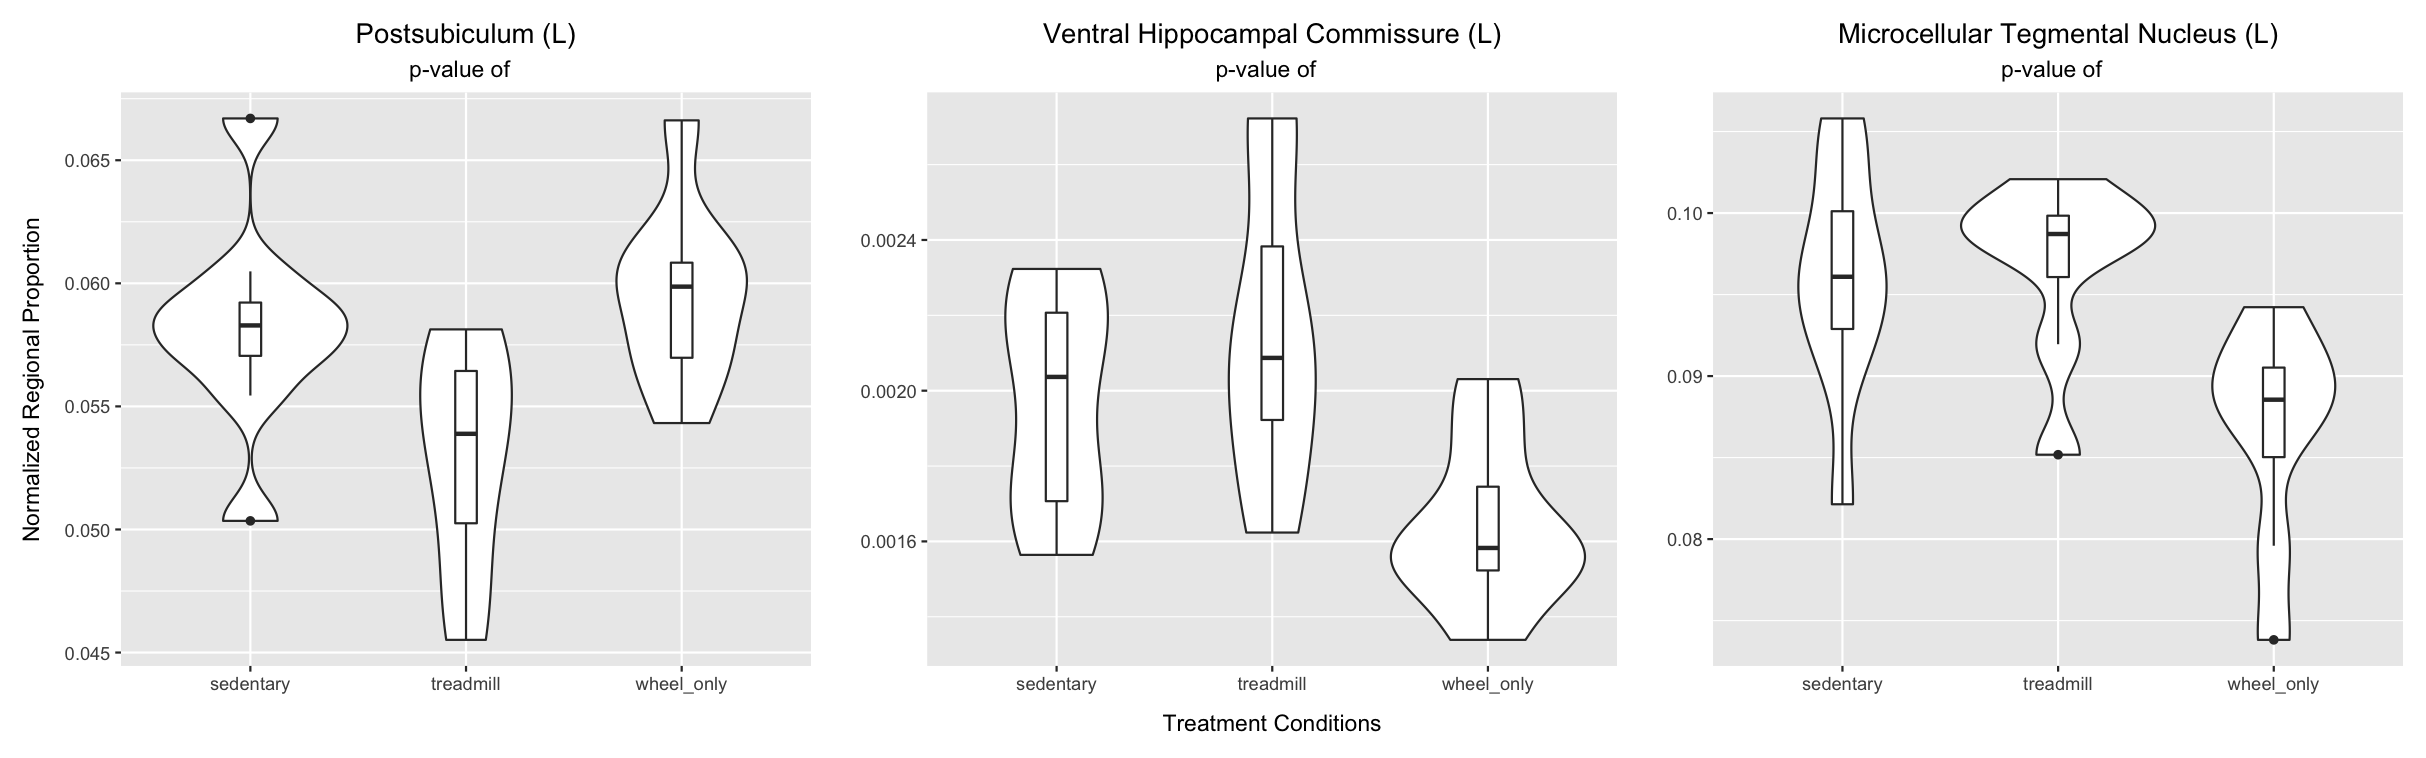
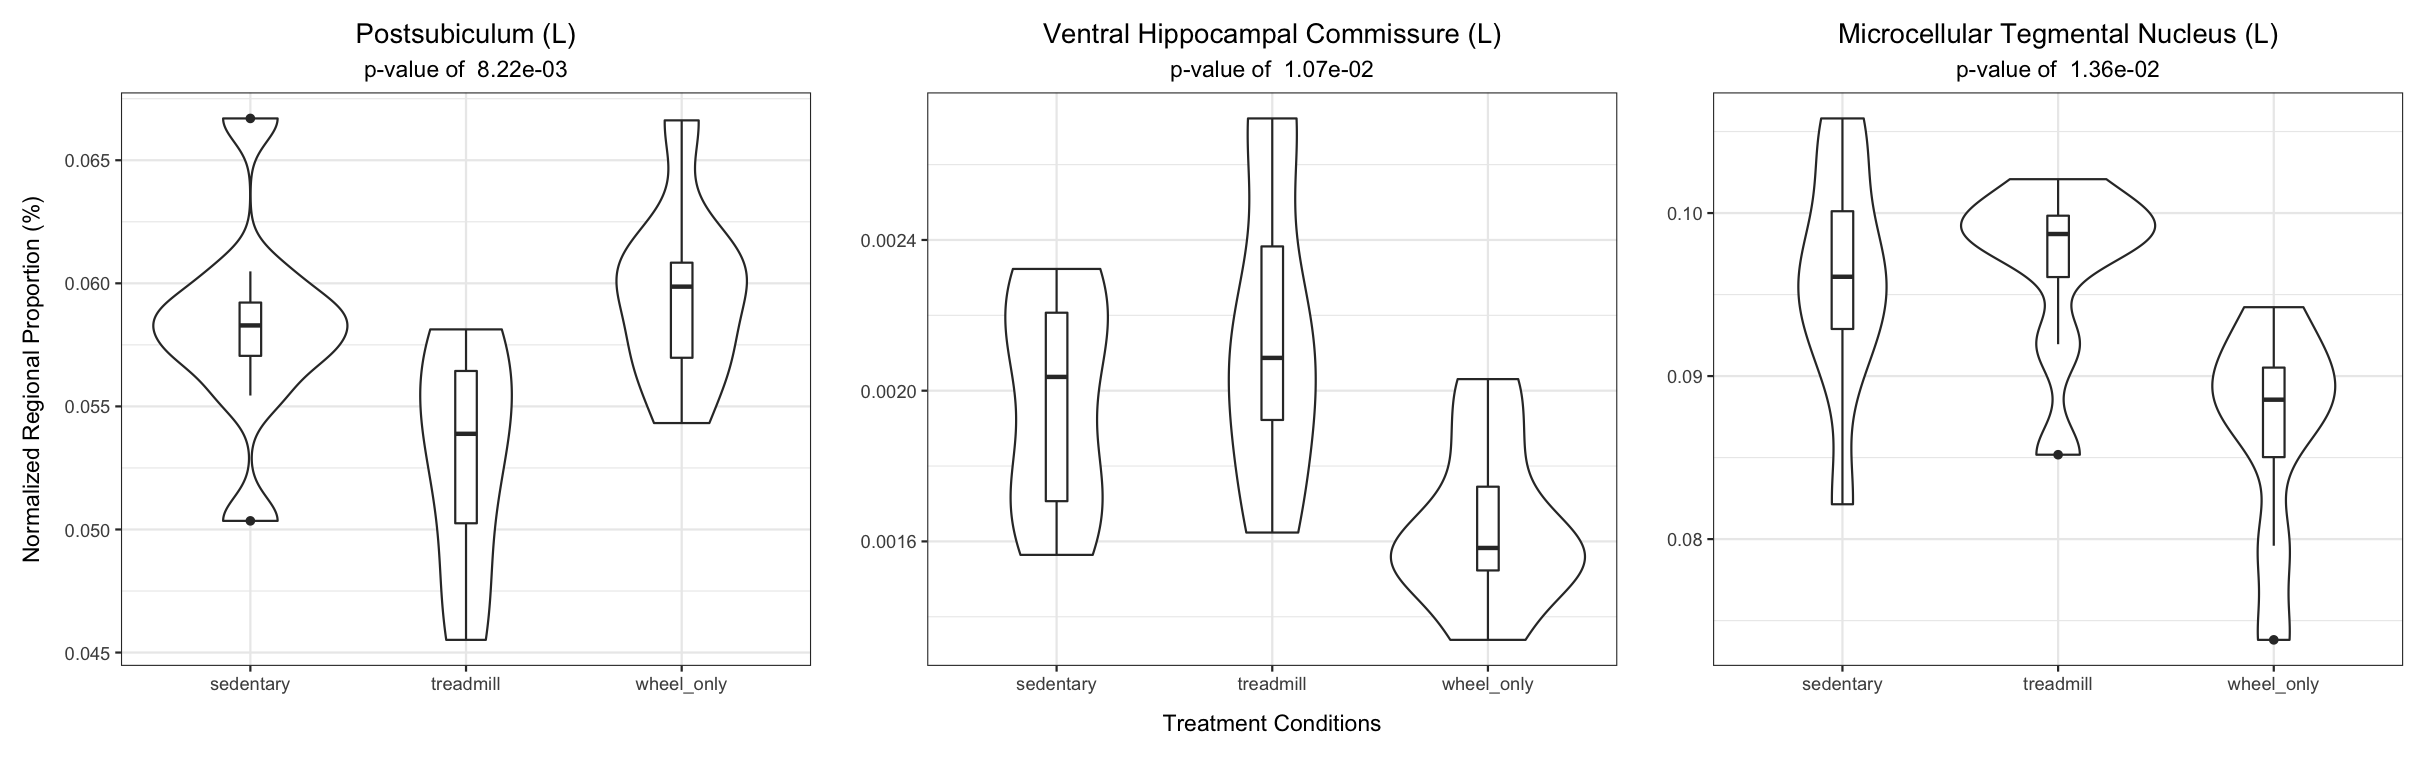
Update output of read_posthoc to make accessibility easier in R script; Updated figure outputs by setting bw theme and printing p-values

diff --git a/Statistical Analysis/read_posthoc.py b/Statistical Analysis/read_posthoc.py
@@ -53,7 +53,7 @@ top_regs_num = 5
 comp_groups = ['ST','SW','TW']
 for comparison in comp_groups:
     df_comp = df.sort_values(by=[comparison], ascending=True)
-    top = pd.DataFrame({'Abbreviation': df_comp.iloc[:,0], 'Structure': [name_dict[key] for key in df_comp.iloc[:,0]], 'p-values ({})'.format(comparison): df_comp.loc[:,comparison]}).head(top_regs_num)
+    top = pd.DataFrame({'Abbreviation': df_comp.iloc[:,0], 'Structure': [name_dict[key] for key in df_comp.iloc[:,0]], 'p-values': df_comp.loc[:,comparison]}).head(top_regs_num)
     top_regs.append(top) # Append relevant regions based on comparison group to empty top_regs list
 
 # Replace naming convention for different treatment groups to more accurately describe exercise conditions
